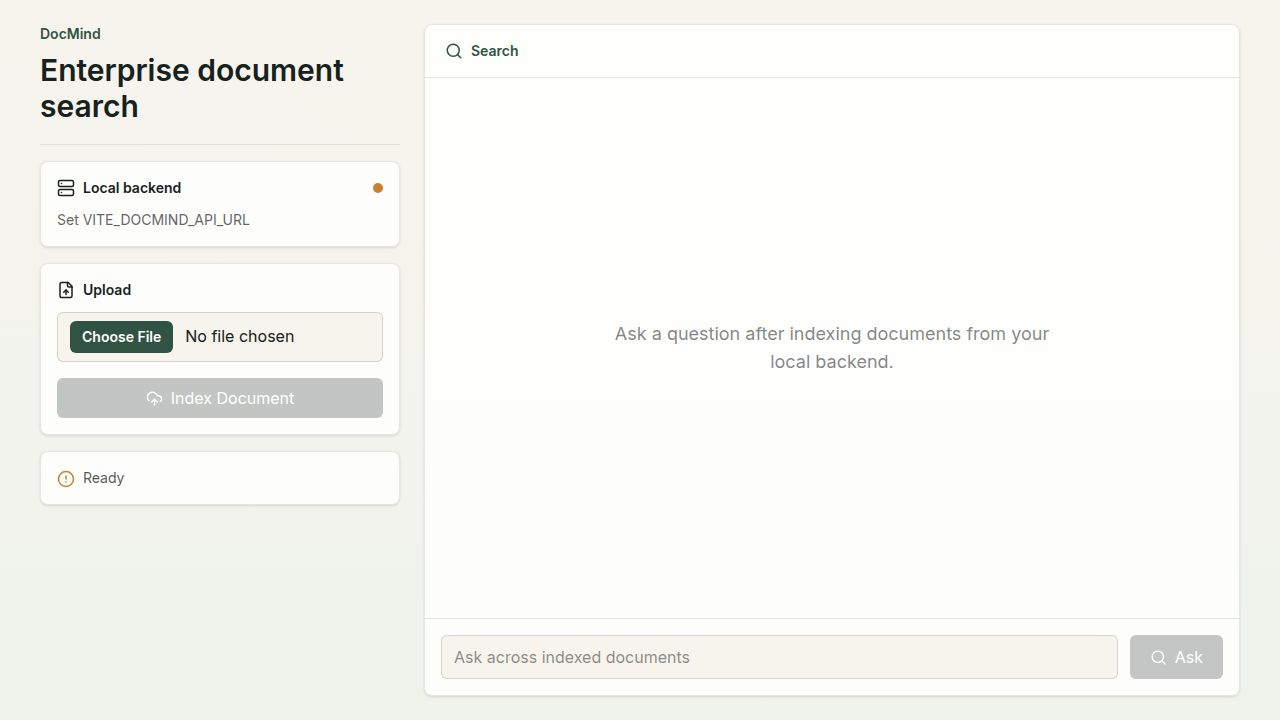
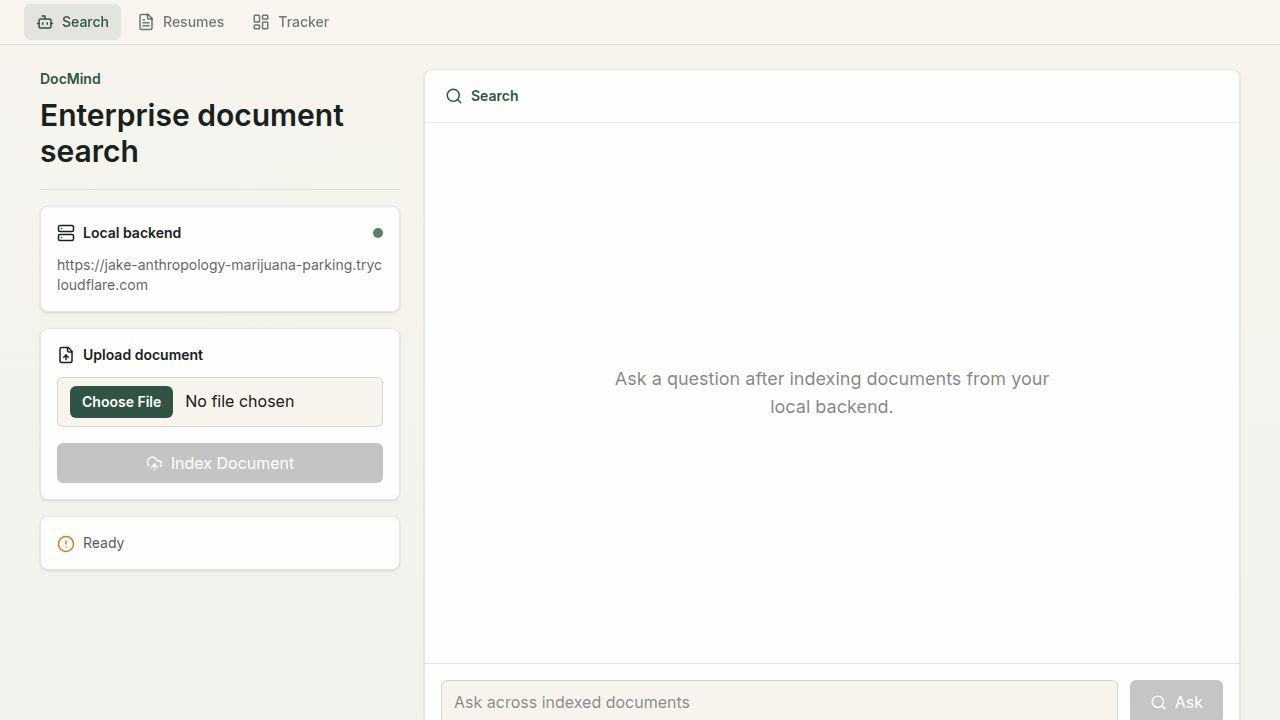
Update setup instructions and implement storage for resume tailoring features
Add SQL scripts for Supabase storage buckets and RLS policies, along with updated setup documentation for local development.

Replit-Commit-Author: Agent
Replit-Commit-Session-Id: e27ed4cc-cd46-4a97-97de-71b8d7523a27
Replit-Commit-Checkpoint-Type: full_checkpoint
Replit-Commit-Event-Id: c7d19cde-5543-453a-afaa-6cc453572e51
Replit-Commit-Screenshot-Url: https://storage.googleapis.com/screenshot-production-us-central1/a7e0ba6e-dd26-40c9-9796-6a9fa494527b/e27ed4cc-cd46-4a97-97de-71b8d7523a27/qOegMlD
Replit-Helium-Checkpoint-Created: true

diff --git a/replit.md b/replit.md
@@ -1,11 +1,13 @@
 # DocMind
 
-Private enterprise document search — upload files to a local Ollama/FastAPI backend, then ask questions across indexed documents.
+Private enterprise document search + Resume Tailoring & Job Application Tracker.
+
+Upload files to a local Ollama/FastAPI backend, ask questions across indexed documents, upload your resume, paste a JD, and get a tailored DOCX/PDF output with match analysis.
 
 ## Run & Operate
 
-- `pnpm --filter @workspace/docmind run dev` — run the frontend (Vite, port assigned by workflow)
-- `pnpm --filter @workspace/api-server run dev` — run the API server (port 5000)
+- `pnpm --filter @workspace/docmind run dev` — frontend (Vite, port assigned by workflow)
+- `pnpm --filter @workspace/api-server run dev` — API server scaffold (port 5000, not used by DocMind directly)
 - `pnpm run typecheck` — full typecheck across all packages
 - `pnpm run build` — typecheck + build all packages
 
@@ -13,37 +15,81 @@ Private enterprise document search — upload files to a local Ollama/FastAPI ba
 
 - pnpm workspaces, Node.js 24, TypeScript 5.9
 - Frontend: Vite + React, Tailwind CSS v4, wouter routing
-- API: Express 5 (scaffold, not used by DocMind directly — DocMind calls user's local backend)
-- DB: PostgreSQL + Drizzle ORM (scaffold)
-- Validation: Zod (`zod/v4`), `drizzle-zod`
+- API: Express 5 (scaffold), FastAPI (local worker)
+- DB: PostgreSQL + Drizzle ORM (scaffold) + Supabase (pgvector + Storage + Realtime)
+- Validation: Zod (`zod/v4`), Pydantic v2 + `instructor`
+- LLMs: Ollama `qwen2.5:7b` (chat/extraction), `qwen2.5vl:7b` (vision OCR), `nomic-embed-text` (embeddings)
 
 ## Where things live
 
-- `artifacts/docmind/src/App.tsx` — main app UI (single-page, all logic here)
-- `artifacts/docmind/src/index.css` — Tailwind v4 theme with DocMind colors (ink, moss, fern, paper, signal, amber)
-- `artifacts/docmind/index.html` — HTML shell with Inter font
+- `artifacts/docmind/src/App.tsx` — routing: / (Search), /resumes, /tracker
+- `artifacts/docmind/src/lib/supabase.ts` — Supabase browser client + types
+- `artifacts/docmind/src/pages/home.tsx` — RAG chat interface
+- `artifacts/docmind/src/pages/resumes.tsx` — resume upload + realtime status
+- `artifacts/docmind/src/pages/tracker.tsx` — application tracker (Bonsai Memory pattern)
+- `artifacts/docmind/src/components/nav.tsx` — top nav bar
+- `artifacts/docmind/src/index.css` — Tailwind v4 theme
+- `backend/app/worker.py` — async polling loop (resume ingestion + 3-stage tailoring pipeline)
+- `backend/app/schemas.py` — Pydantic models (JobMatchAnalysis, TailoredContent)
+- `backend/app/prompts.py` — Stage 1 & 2 prompt templates (Lost-in-the-Middle layout)
+- `backend/app/context_manager.py` — 8k token budget allocator + LLMLingua wrapper
+- `backend/app/docx_renderer.py` — Stage 3 pure-Python DOCX/PDF generation (no LLM)
+- `supabase/schema.sql` — full DB schema + RPCs + triggers + Realtime
+- `supabase/SETUP.md` — step-by-step Supabase setup guide
+- `claude.md` — AI agent context guide (architecture rules, token stack, directory map)
 
-## Architecture decisions
+## Architecture — 3-Stage Pipeline
 
-- DocMind is a purely frontend app — it calls the user's self-hosted FastAPI backend directly from the browser via `VITE_DOCMIND_API_URL`.
-- No Replit backend routes are needed; the api-server scaffold is present but unused.
-- Converted from Next.js to Vite + React; `NEXT_PUBLIC_DOCMIND_API_URL` → `VITE_DOCMIND_API_URL`.
-- Tailwind custom colors defined in CSS `@theme inline` block (Tailwind v4 pattern).
+```
+Upload JD (browser) → Supabase Storage (job-descriptions bucket)
+                    → job_applications row (status=pending_processing)
+                              ↓  (worker polls every 10s)
+Stage 1 [Analytical]: MarkItDown converts JD+Resume → Markdown
+                       Qwen2.5:7b via instructor → JobMatchAnalysis JSON
+                       (missing_keywords, matched_skills, match_score, core_highlights)
+                              ↓
+Stage 2 [Creative]:   Qwen2.5:7b rewrites summary + bullets → TailoredContent JSON
+                       "Lost in the Middle": missing_keywords TOP, highlights BOTTOM
+                              ↓
+Stage 3 [Structural]: python-docx injects text → .docx + pandoc PDF (NO LLM)
+                       Upload to tailored-resumes bucket
+                              ↓
+Supabase Realtime → browser shows download links instantly
+```
 
-## Product
+## Environment Variables
 
-- Left sidebar: backend status indicator, document upload/index, status messages
-- Right panel: chat-style Q&A interface — ask questions, see answers with citations from indexed documents
+### Frontend (set in Replit Secrets / `.env.local`)
+- `VITE_SUPABASE_URL` — your Supabase project URL
+- `VITE_SUPABASE_ANON_KEY` — Supabase anon key (safe for browser, RLS enforces access)
+- `VITE_DOCMIND_API_URL` — Cloudflare/ngrok tunnel URL to local FastAPI
+
+### Backend (`backend/.env` — never commit this)
+- `SUPABASE_URL` — same as above
+- `SUPABASE_SERVICE_ROLE_KEY` — service role key (never expose to browser)
+- `OLLAMA_BASE_URL` — default `http://localhost:11434`
+- `OLLAMA_CHAT_MODEL` — default `qwen2.5:7b`
+- `OLLAMA_VISION_MODEL` — default `qwen2.5vl:7b`
+- `OLLAMA_EMBED_MODEL` — default `nomic-embed-text`
+
+## First-time Supabase Setup
+
+See `supabase/SETUP.md` for the full step-by-step guide.
+
+**Quick version:**
+1. Run `supabase/schema.sql` in Supabase SQL Editor
+2. Create 3 Storage buckets via dashboard: `resumes`, `job-descriptions`, `tailored-resumes` (all private)
+3. Run open RLS policies from `supabase/SETUP.md` Step 3
+4. Start local worker: `cd backend && python -m app.worker`
+
+## Gotchas
+
+- `VITE_DOCMIND_API_URL` must be set to your Cloudflare Tunnel URL — the green dot on Search tab confirms it's connected.
+- Storage buckets **must be created via the Supabase dashboard** (Storage → New bucket), not just SQL, because the `storage.buckets` INSERT requires superuser access on some plans.
+- The amber dot on "Local backend" turns green when `VITE_DOCMIND_API_URL` is set.
+- Git push requires GitHub connected in Replit Account → Connected services.
+- Worker must be running locally (on your Mac) for the tailoring pipeline to execute — the frontend only queues jobs.
 
 ## User preferences
 
 _Populate as you build — explicit user instructions worth remembering across sessions._
-
-## Gotchas
-
-- Set `VITE_DOCMIND_API_URL` to your local backend tunnel URL (e.g. Cloudflare Tunnel) before using the app.
-- The amber dot on "Local backend" turns green when `VITE_DOCMIND_API_URL` is set.
-
-## Pointers
-
-- See the `pnpm-workspace` skill for workspace structure, TypeScript setup, and package details

diff --git a/supabase/SETUP.md b/supabase/SETUP.md
@@ -1,0 +1,50 @@
+# Supabase Setup Guide
+
+## Step 1 — Run the main schema
+
+Go to: https://supabase.com/dashboard/project/xsrswffyzrtctinsjpty/sql/new
+
+Paste and run `schema.sql` (creates tables, RPCs, triggers, Realtime).
+
+## Step 2 — Create Storage buckets (DASHBOARD METHOD — most reliable)
+
+Go to: https://supabase.com/dashboard/project/xsrswffyzrtctinsjpty/storage/buckets
+
+Create 3 buckets (all **private**):
+1. `resumes`
+2. `job-descriptions`  
+3. `tailored-resumes`
+
+## Step 3 — Run open RLS policies (for dev without Auth)
+
+Paste and run in SQL Editor:
+
+```sql
+-- Open RLS for dev (no Supabase Auth yet)
+create policy "Dev open resumes"         on resumes          for all using (true) with check (true);
+create policy "Dev open applications"    on job_applications for all using (true) with check (true);
+create policy "Dev open documents"       on documents        for all using (true) with check (true);
+create policy "Dev open chunks"          on document_chunks  for all using (true) with check (true);
+
+-- Storage bucket policies
+create policy "Allow all resumes storage"          on storage.objects for all using (bucket_id = 'resumes')          with check (bucket_id = 'resumes');
+create policy "Allow all jd storage"               on storage.objects for all using (bucket_id = 'job-descriptions') with check (bucket_id = 'job-descriptions');
+create policy "Allow all tailored-resumes storage" on storage.objects for all using (bucket_id = 'tailored-resumes') with check (bucket_id = 'tailored-resumes');
+```
+
+## Step 4 — Start the local FastAPI worker (on your Mac)
+
+```bash
+cd backend
+pip install -r requirements.txt
+# Create backend/.env from .env.example and fill in your values
+uvicorn app.main:app --reload --port 8000 &
+python -m app.worker
+```
+
+## Step 5 — Expose via Cloudflare Tunnel
+
+```bash
+cloudflared tunnel --url http://localhost:8000
+# Paste the https://xxx.trycloudflare.com URL into VITE_DOCMIND_API_URL
+```